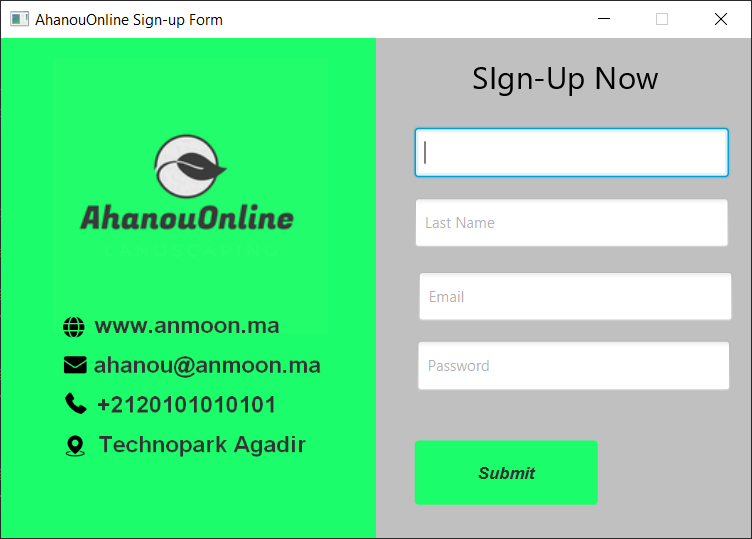
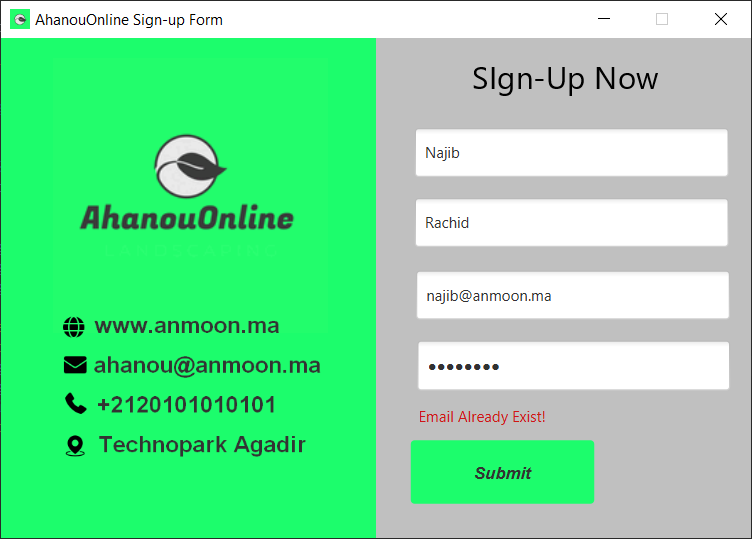
fix logout & add favico

diff --git a/brief7-desktop-application/src/application/MainOld.java b/brief7-desktop-application/src/application/MainOld.java
@@ -1,0 +1,158 @@
+package application;
+
+
+import dao.UserDao;
+import entity.User;
+import javafx.application.Application;
+import javafx.event.ActionEvent;
+import javafx.event.EventHandler;
+import javafx.geometry.HPos;
+import javafx.geometry.Insets;
+import javafx.geometry.Pos;
+import javafx.scene.Scene;
+import javafx.scene.control.*;
+import javafx.scene.image.Image;
+import javafx.scene.image.ImageView;
+import javafx.scene.layout.*;
+import javafx.scene.text.Font;
+import javafx.scene.text.FontWeight;
+import javafx.stage.Stage;
+import javafx.stage.Window;
+
+public class MainOld extends Application {
+	
+
+    public static void main(String[] args) {
+        launch(args);
+    }
+
+    @Override
+    public void start(Stage primaryStage) throws Exception {
+        primaryStage.setTitle("AhanouOnline Sign-up Form");
+        GridPane gridPane = createRegistrationFormPane();
+        addUIControls(gridPane);
+        Scene scene = new Scene(gridPane, 800, 800);
+		scene.getStylesheets().add(getClass().getResource("application.css").toExternalForm());
+
+        primaryStage.setScene(scene);
+        primaryStage.show();
+    }
+
+
+    private GridPane createRegistrationFormPane() {
+        GridPane gridPane = new GridPane();
+        gridPane.setAlignment(Pos.CENTER);
+        gridPane.setPadding(new Insets(15, 15, 15, 15));
+        gridPane.setHgap(25);
+        gridPane.setVgap(10);
+        return gridPane;
+    }
+
+    private void addUIControls(GridPane gridPane) {
+    	
+        Image image = new Image("File:src/ahanou.png");  
+        
+        ImageView pic = new ImageView();
+        pic.setFitWidth(100);
+        pic.setFitHeight(100);
+        pic.setImage(image);
+        
+      
+        gridPane.getChildren().add(pic);
+
+        
+        Label headerLabel = new Label("Sign-up Now");
+        headerLabel.setFont(Font.font("Arial", FontWeight.BOLD, 20));
+        gridPane.add(headerLabel, 0,0,1,1);
+        GridPane.setHalignment(headerLabel, HPos.CENTER);
+
+        GridPane.setMargin(headerLabel, new Insets(20, 0, 10,0));
+         
+
+//(0, 0)	(1, 0)	(2, 0)
+//(2, 1)	(1, 1)	(0, 1)
+//(2, 2)	(1, 2)	(0, 2)
+
+
+        TextField fnameField = new TextField();
+        fnameField.setPrefHeight(40);
+        fnameField.setPromptText("First Name:");
+        fnameField.setPrefWidth(400);
+
+        gridPane.add(fnameField, 1, 0);
+
+
+        TextField lnameField = new TextField();
+        lnameField.setPrefHeight(40);    
+        lnameField.setPromptText("Last Name:");
+        lnameField.setPrefWidth(400);
+
+        gridPane.add(lnameField, 2,0);
+
+
+        TextField emailField = new TextField();
+        emailField.setPrefHeight(40);
+        emailField.setPromptText("Email:");
+        emailField.setPrefWidth(400);
+
+        gridPane.add(emailField, 1, 2);
+
+
+        PasswordField passwordField = new PasswordField();
+        passwordField.setPrefHeight(40);
+        passwordField.setPromptText("Password:");
+        passwordField.setPrefWidth(400);
+
+        gridPane.add(passwordField, 2, 3);
+        gridPane.setStyle("-fx-background-color: #1cfd6c;-fx-alignment: CENTER;"); 
+
+         
+        Button submitButton = new Button("Sign Up");
+        submitButton.setPrefHeight(40);
+        submitButton.setDefaultButton(true);
+        submitButton.setPrefWidth(900);
+        gridPane.add(submitButton, 0, 4, 2, 1);
+        GridPane.setHalignment(submitButton, HPos.CENTER);
+        GridPane.setMargin(submitButton, new Insets(20, 0,20,0));
+
+        submitButton.setOnAction(new EventHandler<ActionEvent>() {
+            @Override
+            public void handle(ActionEvent event) {
+                if(fnameField.getText().isEmpty()) {
+                    alert(Alert.AlertType.ERROR, gridPane.getScene().getWindow(), "Form Error!", "Please enter your First Name!");
+                    return;
+                }
+                if(lnameField.getText().isEmpty()) {
+                    alert(Alert.AlertType.ERROR, gridPane.getScene().getWindow(), "Form Error!", "Please enter your Last  Name!");
+                    return;
+                }
+                if(emailField.getText().isEmpty()) {
+                    alert(Alert.AlertType.ERROR, gridPane.getScene().getWindow(), "Form Error!", "Please enter your email!");
+                    return;
+                }
+                if(passwordField.getText().isEmpty()) {
+                   alert(Alert.AlertType.ERROR, gridPane.getScene().getWindow(), "Form Error!", "Please enter a password!");
+                    return;
+                }
+                UserDao userDao =  new UserDao();
+                User user = new User(emailField.getText(), passwordField.getText(), fnameField.getText(), lnameField.getText(), false);
+
+	         	if(userDao.insert(user)) {
+		            alert(Alert.AlertType.CONFIRMATION, gridPane.getScene().getWindow(), "You Signed up Successfuly!", "Welcome To Ahanou " + fnameField.getText() + " " + lnameField.getText());
+
+		       }
+   
+            }
+        });
+    }
+
+    private void alert(Alert.AlertType alertType, Window owner, String title, String message) {
+        Alert alert = new Alert(alertType);
+        alert.setTitle(title);
+        alert.setHeaderText(null);
+        alert.setContentText(message);
+        alert.initOwner(owner);
+        alert.show();
+    }
+
+}

diff --git a/brief7-desktop-application/src/application/SignupController.java b/brief7-desktop-application/src/application/SignupController.java
@@ -1,21 +1,30 @@
 package application;
 
 import java.io.IOException;
+import java.net.URL;
+import java.util.ResourceBundle;
+import java.util.regex.Matcher;
+import java.util.regex.Pattern;
 
 import dao.UserDao;
 import entity.User;
 import javafx.event.ActionEvent;
 import javafx.event.EventHandler;
 import javafx.fxml.FXML;
+import javafx.fxml.FXMLLoader;
+import javafx.fxml.Initializable;
+import javafx.scene.Parent;
+import javafx.scene.Scene;
 import javafx.scene.control.Alert;
 import javafx.scene.control.Button;
 import javafx.scene.control.Label;
 import javafx.scene.control.PasswordField;
 import javafx.scene.control.TextField;
 import javafx.scene.layout.GridPane;
+import javafx.stage.Stage;
 import javafx.stage.Window;
 
-public class SignupController {
+public class SignupController  implements Initializable {
 	
     @FXML
     private Label errorLabel;
@@ -29,20 +38,46 @@ public class SignupController {
     private TextField lnameField;
     @FXML
     private PasswordField passwordField;
+    
+    private UserDao userDao =  new UserDao();
+    
+    private User user;
+    
+    //private  boolean uniqueEmail = false;
+
 	
 	   public SignupController() {
 	    }
 	  
 	   
-	   public void userSignUp(ActionEvent event) throws IOException {
-		   signUp(event);
-
-	   }
-
+//	   public void userSignUp(ActionEvent event) throws IOException {
+//		   signUp(event);
+//
+//	   }
+	   
+		@Override
+		public void initialize(URL arg0, ResourceBundle arg1) {
+			
+			submitButton.setOnAction( event -> {
+				try {
+					signUp(event);
+				} catch (IOException e) {
+					// TODO Auto-generated catch block
+					e.printStackTrace();
+				}
+	        });
+		}
+		
+	   
+	   
        
     private void signUp(ActionEvent event) throws IOException {
 
         Main m = new Main();
+        String regex = "^[A-Za-z0-9+_.-]+@(.+)$";
+        Pattern pattern = Pattern.compile(regex);
+        Matcher matcher = pattern.matcher(emailField.getText());
+        
 
         if(fnameField.getText().isEmpty()) {
             errorLabel.setText("Please enter a First Name!");
@@ -57,19 +92,68 @@ public class SignupController {
             errorLabel.setText("Please enter a Email!");
             return;
         }
+        
+
+        if(emailField.getText().isEmpty()) {
+            errorLabel.setText("Please enter a Email!");
+            return;
+        }
+        if(!matcher.matches()) {
+            errorLabel.setText("Please enter a Valid Email!");
+            return;
+        }
+        if(userDao.checkEmail(emailField.getText())) {
+            errorLabel.setText("Email Already Exist!");
+            return;
+        }
+        
+          
         if(passwordField.getText().isEmpty()) {
             errorLabel.setText("Please enter a Password!");
             return;
         }
-        UserDao userDao =  new UserDao();
-        User user = new User(emailField.getText(), passwordField.getText(), fnameField.getText(), lnameField.getText(), false);
+        
+       if(passwordField.getText().length() < 8 ) {
+          errorLabel.setText("Password can't be less then 8 chars.");
+          return;
+      }
+
+        
+        user = new User(emailField.getText(), passwordField.getText(), fnameField.getText(), lnameField.getText(), false);
 
      	if(userDao.insert(user)) {
             errorLabel.setText("Sign-up Successfull!");
             errorLabel.setStyle("-fx-text-fill: #1cfd6c;");  
-            m.changeScene("Dashboard.fxml");
+            loadSceneAndSendMessage();
+
      	}
 }
+
+     
+    private void loadSceneAndSendMessage() {
+        try {
+            FXMLLoader loader = new FXMLLoader(getClass().getResource("Dashboard.fxml"));
+            Parent root = loader.load();
+
+            DashboardController dashboardController = loader.getController();
+            dashboardController.transferMessage(fnameField.getText()+ " " + lnameField.getText());
+ 
+            
+            Main m = new Main();
+            m.changeScene("Dashboard.fxml");
+
+//            Stage stage = new Stage();
+//            stage.setScene(new Scene(root));
+//            stage.setTitle("Second Window");
+//            stage.show();
+//            
+
+        } catch (IOException ex) {
+            System.err.println(ex);
+        }
+    }
+
+
 
 
 }

diff --git a/brief7-desktop-application/src/application/Main.java b/brief7-desktop-application/src/application/Main.java
@@ -7,6 +7,7 @@ import javafx.stage.Stage;
 import javafx.stage.Window;
 import javafx.scene.Parent;
 import javafx.scene.Scene;
+import javafx.scene.image.Image;
 import javafx.scene.layout.BorderPane;
 import javafx.fxml.FXMLLoader;
 
@@ -19,6 +20,7 @@ public class Main extends Application {
 	    stg = primaryStage;
 
 		try {
+	    	primaryStage.getIcons().add(new Image("resources/ahanou-icon.png"));
 	        primaryStage.setTitle("AhanouOnline Sign-up Form");
 	        primaryStage.setResizable(false);
 			BorderPane root = (BorderPane)FXMLLoader.load(getClass().getResource("Signup.fxml"));

diff --git a/brief7-desktop-application/src/application/DashboardController.java b/brief7-desktop-application/src/application/DashboardController.java
@@ -3,6 +3,7 @@ package application;
 import javafx.event.ActionEvent;
 import javafx.fxml.FXML;
 import javafx.scene.control.Button;
+import javafx.scene.text.Text;
 
 import java.io.IOException;
 
@@ -10,11 +11,16 @@ public class DashboardController {
 
     @FXML
     private Button logout;
-
+    @FXML
+    private Text displayName;
 
     public void userLogOut(ActionEvent event) throws IOException {
         Main m = new Main();
         m.changeScene("Signup.fxml");
 
+    }
+     
+    public void transferMessage(String message) {
+    	displayName.setText(message);
     }
 }

diff --git a/brief7-desktop-application/src/dao/UserDao.java b/brief7-desktop-application/src/dao/UserDao.java
@@ -158,4 +158,21 @@ public class UserDao implements Dao<User>{
 
 
 
+	public boolean checkEmail(String email) {
+		try {
+		    Statement stmt = connection.createStatement();
+		    ResultSet rs = stmt.executeQuery("SELECT * FROM " + User.getTableName() + " WHERE email='" + email + "'");
+		    while ( rs.next() ) {
+				   return true;
+	          }
+
+		} catch (SQLException ex) {
+		  //  ex.printStackTrace();
+		}
+
+		return false;
+	}
+
+
+
 }
